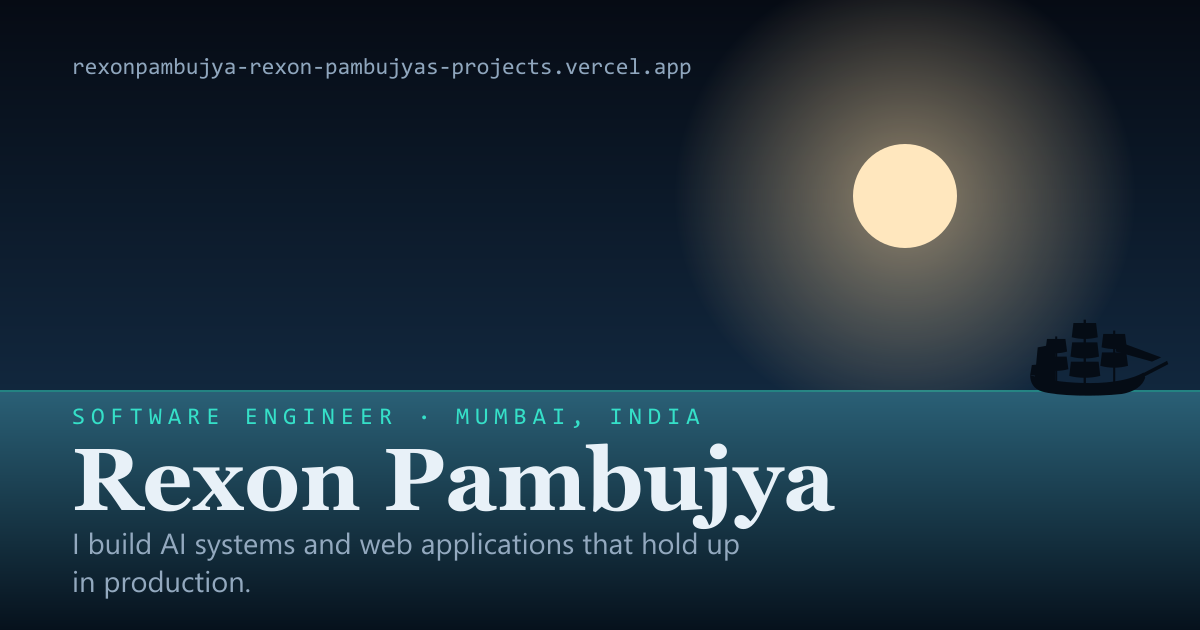
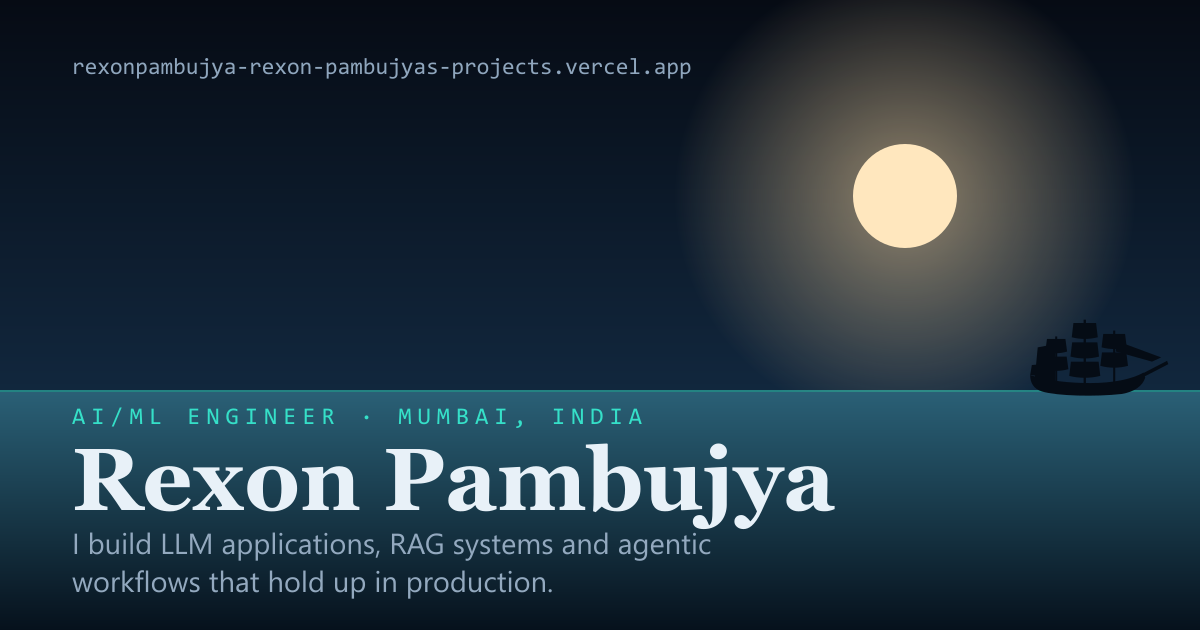
Reposition as AI/ML Engineer
Role was "Software Engineer", which feeds the page title, OG card,
footer and JSON-LD jobTitle — the exact strings recruiters and search
engines match on. It now names the target role.

Bio rewritten around GenAI, RAG, agents and production ML, and leads
with evidence already on the page: the 90% documentation reduction,
Gemma 2 + LoRA fine-tuning, the 28% logistics saving.

Meta description and keywords retargeted at AI Engineer / ML Engineer /
Data Scientist searches. OG card regenerated.

diff --git a/content/profile.js b/content/profile.js
@@ -9,7 +9,13 @@
 export const profile = {
   name: "Rexon Pambujya",
   firstName: "Rexon",
-  role: "Software Engineer",
+  /**
+   * Load-bearing: this string is the page title, the OG card, the footer
+   * and the JSON-LD jobTitle. It's the phrase recruiters and search
+   * engines match on, so it names the target role rather than the last
+   * job title.
+   */
+  role: "AI/ML Engineer",
   location: "Mumbai, India",
 
   /** Drives the "years of experience" stat so it never goes stale. */
@@ -31,19 +37,20 @@ export const profile = {
   avatar: "/hero/dev.webp",
 
   /** Hero copy. Keep the headline short — it sits over the ocean. */
-  kicker: "Software Engineer · Mumbai",
+  kicker: "AI/ML Engineer · Mumbai",
   headline: "Rexon Pambujya",
   tagline:
-    "I build AI systems and web applications that hold up in production.",
+    "I build LLM applications, RAG systems and agentic workflows that hold up in production.",
 
   bio: [
-    "A passionate **Software Engineer** based in Mumbai with strong skills in **Python**, **Data Science**, **Machine Learning** and **Web Development**.",
-    "With hands-on experience at **Blitzar Tech**, **XEMI**, and **Cere Labs**, I've delivered real-world impact — fine-tuning AI models to improve prediction accuracy, building intelligent chatbots that cut customer response time, and streamlining web applications for faster deployments.",
-    "I love blending technology and innovation to solve business problems, whether that's creating machine learning models, automating processes, or enhancing user experiences.",
+    "**AI/ML Engineer** with 3+ years building **machine learning models**, **GenAI applications**, **RAG systems** and **agentic AI workflows** — most recently as a **Data Scientist** at NeoSOFT.",
+    "My work spans **LLM applications**, **RAG** and semantic search, **AI agents** built with **LangGraph** and **LangChain**, fine-tuning and evaluation of domain-specific models, and **predictive modelling** and forecasting. Mostly **Python**, **FastAPI**, **SQL** and vector databases.",
+    "Recently that has meant an LLM pipeline turning meeting recordings into client-ready requirement documents, cutting manual documentation effort by **90%**, and fine-tuning **Gemma 2** on insurance data with **LoRA** and 4-bit quantisation. Earlier work covers GPT fine-tuning for HSN classification, logistics route optimisation that cut transport costs **28%**, and stroke risk prediction.",
+    "The part I care most about is the one most ML work skips — getting the model behind an API, in a container, with evaluation you can actually trust.",
   ],
 
-  /** Shown on /about. `Passion fuels Purpose!` was the old heading. */
-  aboutHeading: "Passion fuels Purpose",
+  /** Section heading on the homepage. */
+  aboutHeading: "From prototype to production",
 };
 
 /**

diff --git a/content/site.js b/content/site.js
@@ -13,16 +13,28 @@ export const site = {
 
   title: `${profile.name} — ${profile.role}`,
   shortTitle: profile.name,
+  // Kept under ~160 characters so search engines show it whole.
   description:
-    "Software Engineer in Mumbai building AI systems and web applications. Python, machine learning, React and Next.js.",
+    "AI/ML Engineer in Mumbai with 3+ years building LLM applications, RAG systems, AI agents and production ML. Python, LangChain, LangGraph, FastAPI.",
 
+  // Ordered by the roles being targeted, then the tools recruiters filter on.
   keywords: [
     "Rexon Pambujya",
-    "Software Engineer",
-    "Machine Learning",
+    "AI/ML Engineer",
+    "AI Engineer",
+    "Machine Learning Engineer",
+    "Data Scientist",
+    "Generative AI",
+    "AI Agents",
+    "RAG",
+    "LLM",
+    "LangChain",
+    "LangGraph",
+    "Fine-tuning",
     "Python",
-    "React",
-    "Next.js",
+    "FastAPI",
+    "PyTorch",
+    "Data Science",
     "Mumbai",
   ],
 
